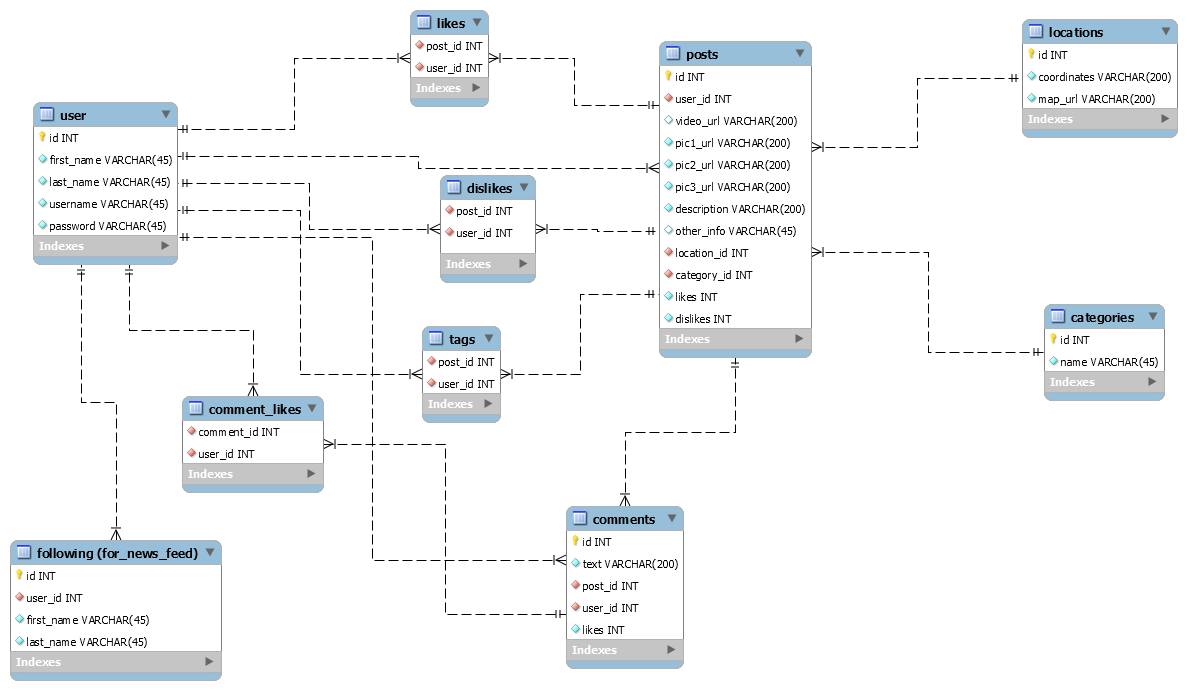
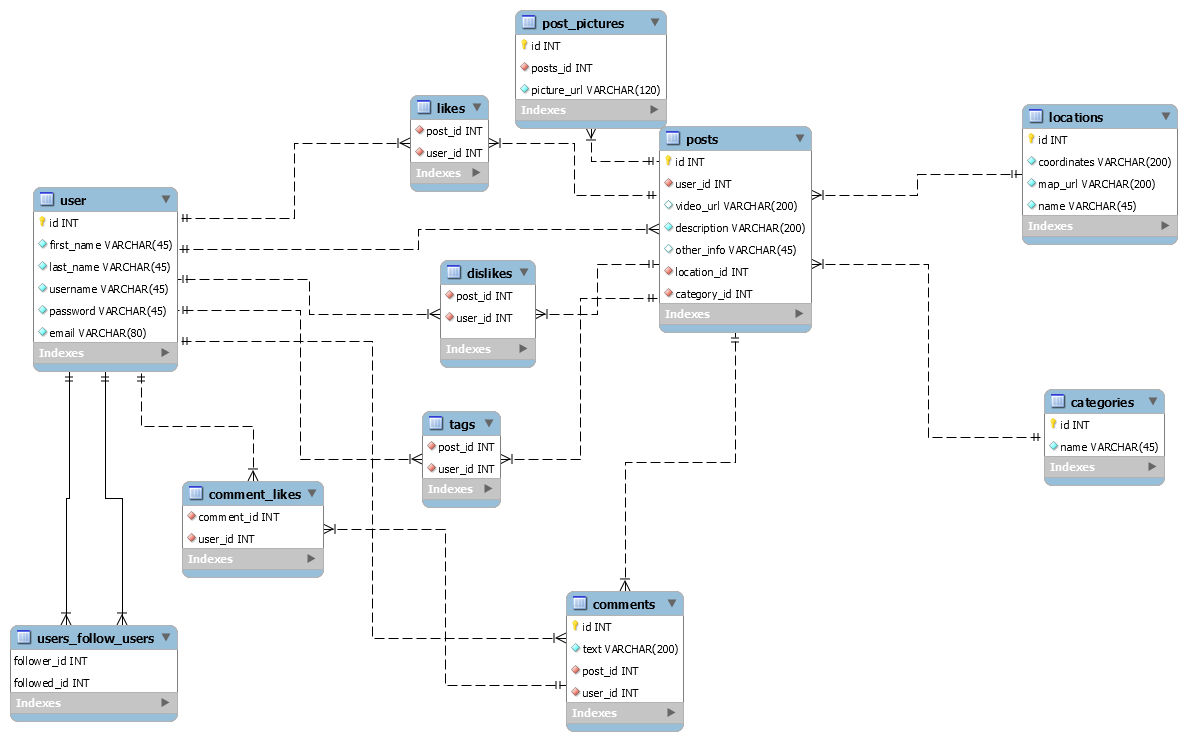
ER Diagram modification

diff --git a/src/main/java/ittalentss11/traveller_online/model/User.java b/src/main/java/ittalentss11/traveller_online/model/User.java
@@ -13,6 +13,7 @@ public class User {
     private String firstName;
     private String lastName;
     private String username;
+    private String email;
     @JsonIgnore
     private String password;
 }
